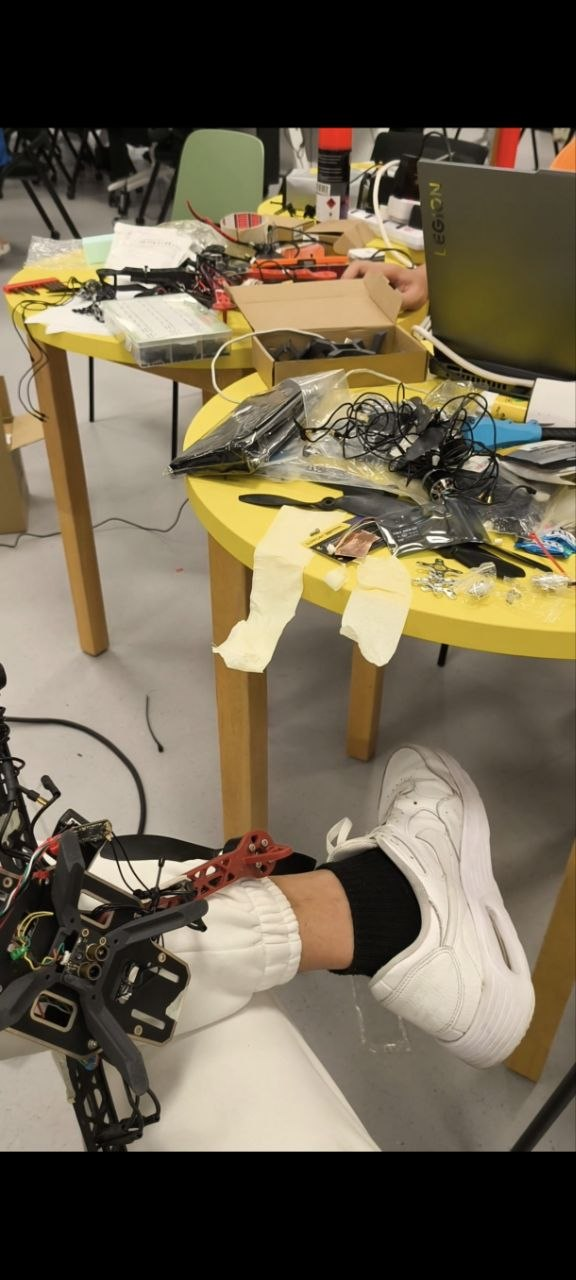
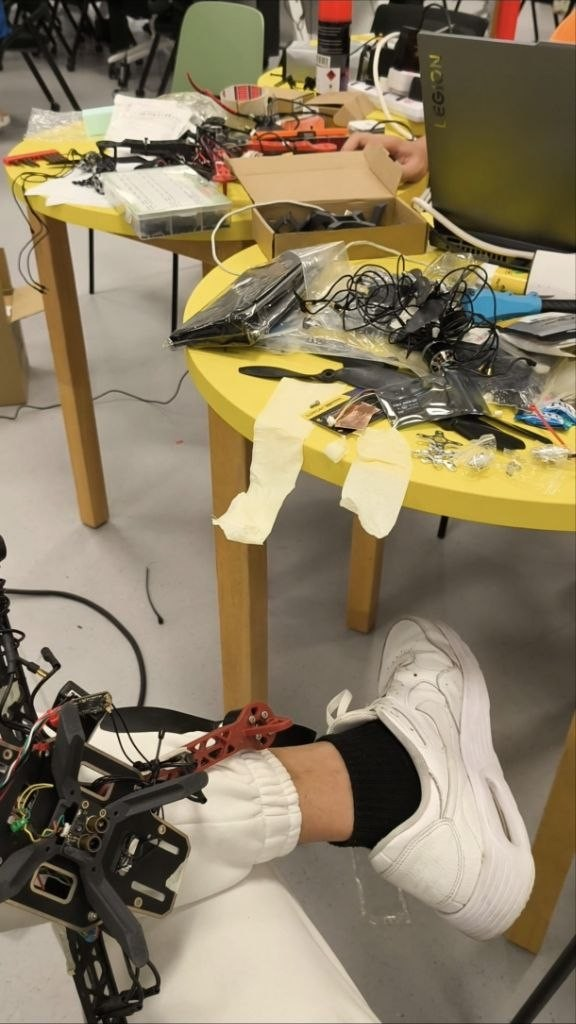
added work pictures

diff --git a/src/data/fieldNotes.js b/src/data/fieldNotes.js
@@ -68,6 +68,16 @@ export const fieldNotes = [
     date: "2026-02-23",
   },
   {
+    id: "safmc-test-001",
+    title: "Outdoor Tuning and Calibration",
+    description: "Outdoor tuning and calibration for the competition drone.",
+    category: "work",
+    album: "SAFMC 2026",
+    src: "./assets/field-notes/work/safmc-outdoor-tuning-calibration.jpg",
+    type: "image",
+    date: "2026-04-03",
+  },
+  {
     id: "fwish-discard-lastpiece-001",
     title: "v0 Display Model discarded",
     description: "Discarding the final component of the FWISH V0 display model structure.",
